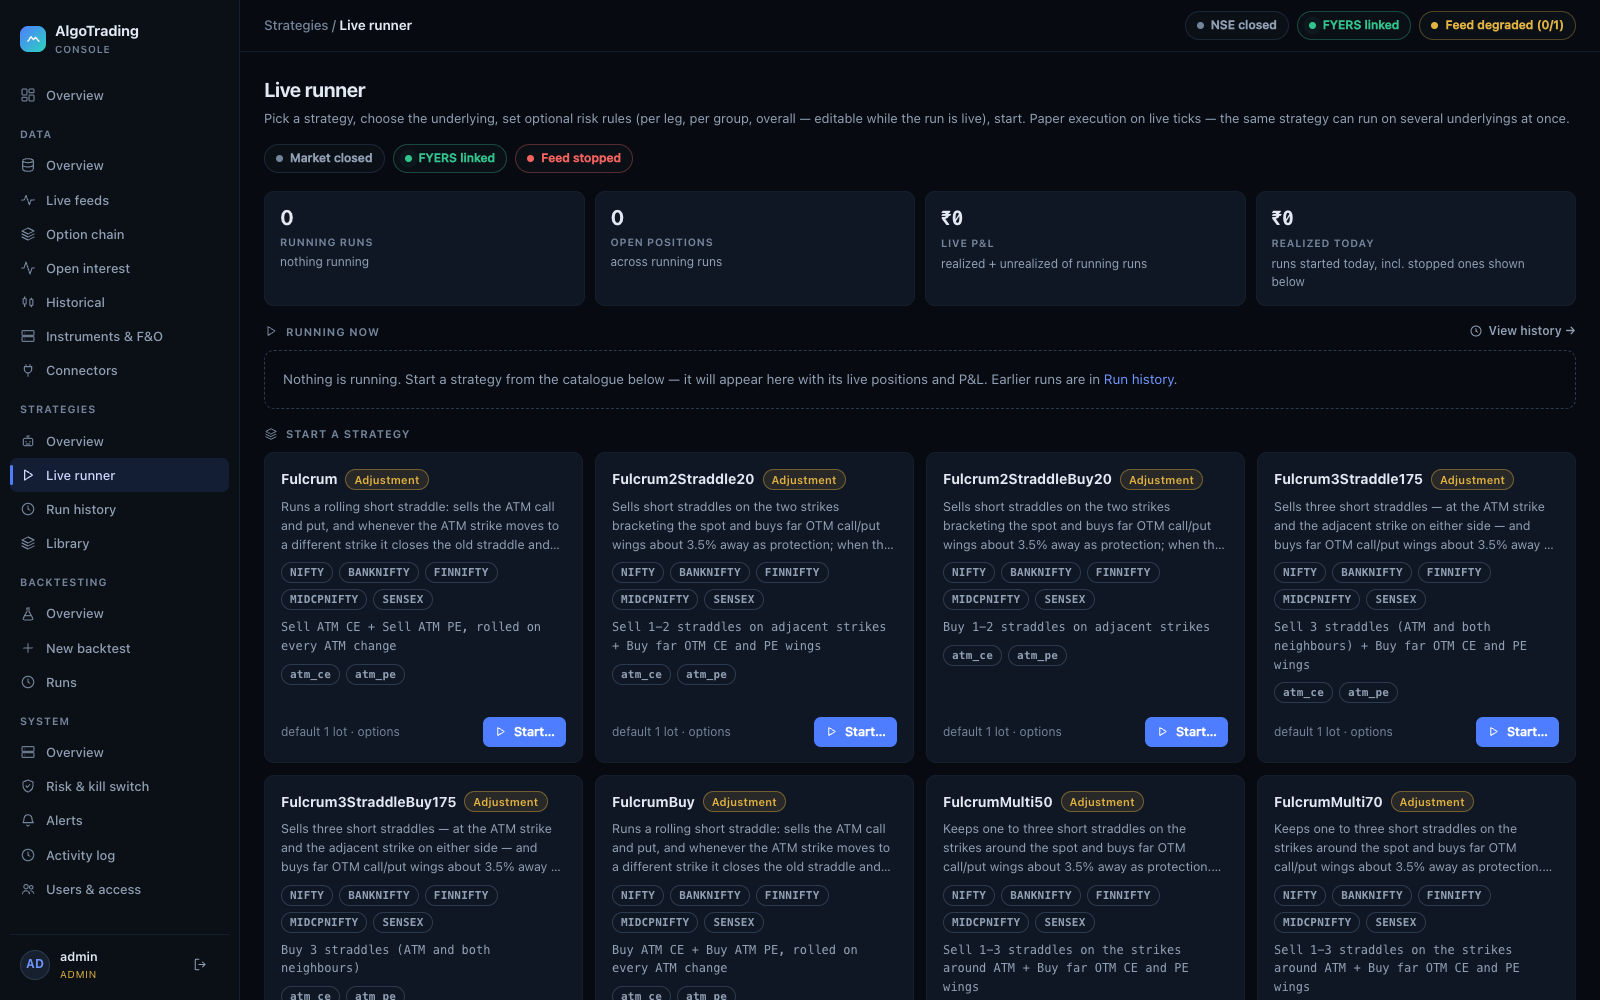
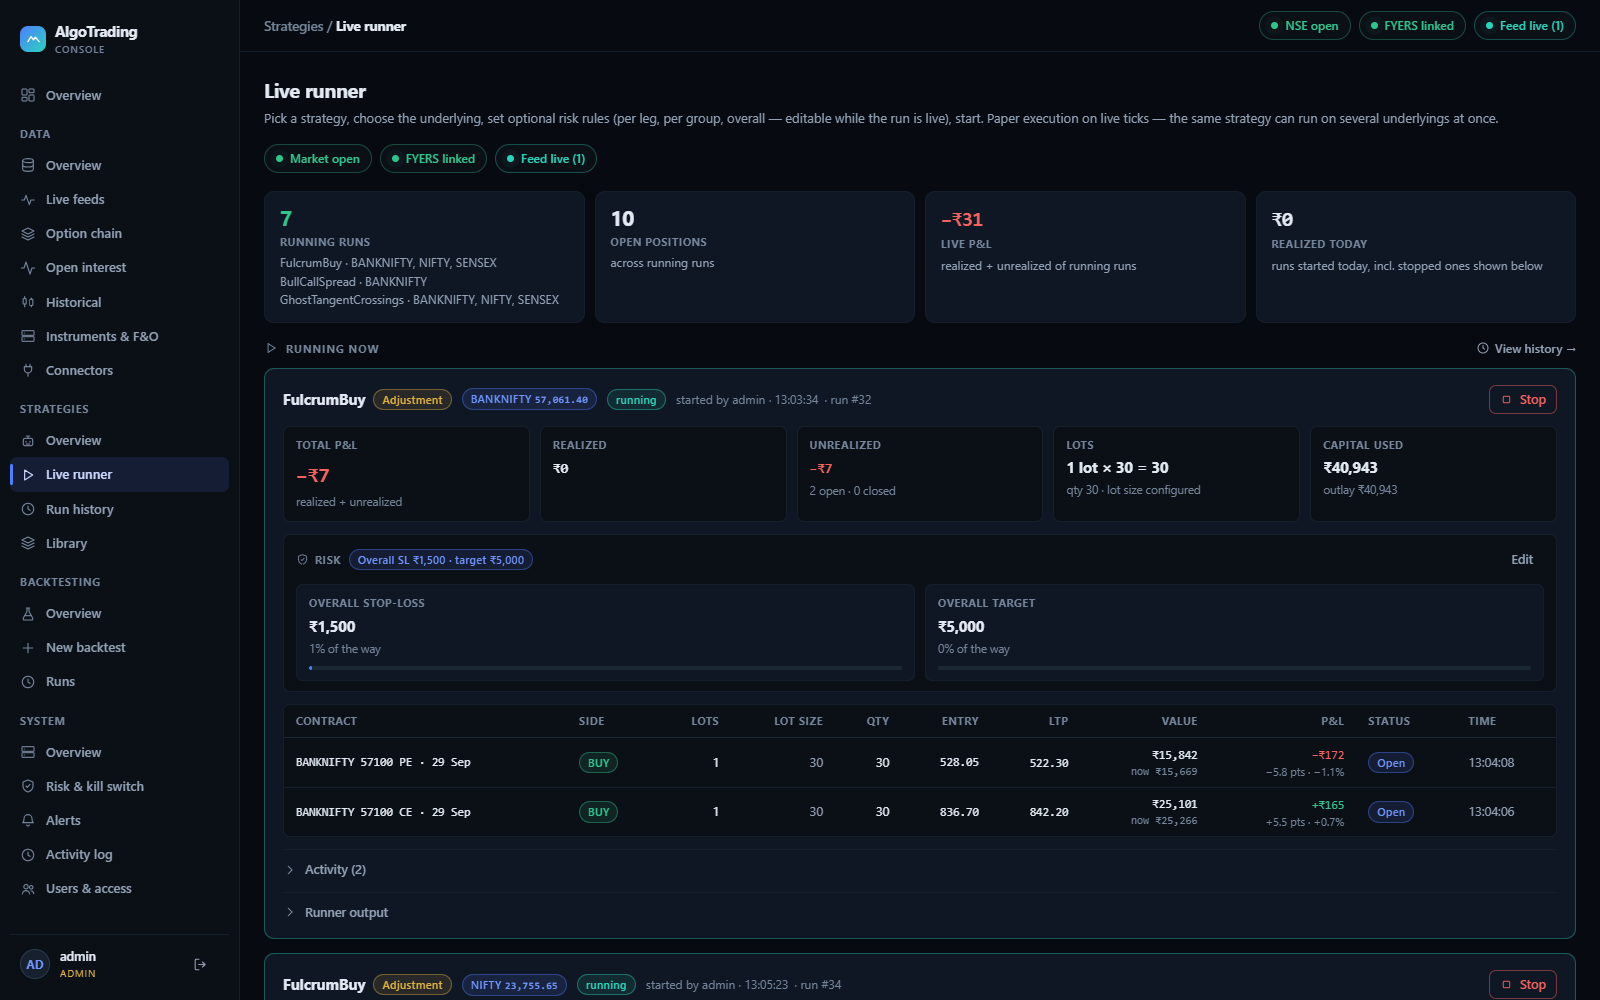
Update docs and images

diff --git a/README.md b/README.md
@@ -45,11 +45,18 @@ backtest you cannot run is better than one that quietly replays a gap.
 
 ![Backtesting: stored history per index and resolution, with its source](docs/image/console-backtesting.png)
 
+**Strategies** — what is running right now, across every underlying, with the
+open positions and live P&L of each run. The same strategy on three indices is
+three independent runs: each is counted, priced and stopped on its own.
+
+![Strategies: runs live across NIFTY, BANKNIFTY and SENSEX, each with its own open positions and P&L](docs/image/console-strategies-live.png)
+
 **Run history** — every live run, attached to the user who started it, with
 quantity expressed as **lots × lot size** rather than a bare share count.
-Nothing is dismissed: a run that stopped for any reason is still here.
+Nothing is dismissed: a run that stopped for any reason is still here, and the
+ones still going are counted apart from it as live.
 
-![Run history: runs per user with net P&L and lots × lot size](docs/image/console-run-history.png)
+![Run history: runs per user, the live ones still counting, with net P&L and lots × lot size](docs/image/console-run-history.png)
 
 **Live runner** — pick a strategy, choose the underlying, set risk rules per leg,
 per group or over the whole run, and start it. Quantity is **lots**; the platform
@@ -57,7 +64,26 @@ multiplies by the contract's lot size, which differs per underlying (30 for
 BANKNIFTY, 65 for NIFTY) and is read from the instrument master rather than
 assumed.
 
-![Live runner: running runs, then the strategy catalogue with supported underlyings](docs/image/console-live-runner.png)
+![Live runner: running runs with their risk rules, open legs and live P&L, above the strategy catalogue](docs/image/console-live-runner.png)
+
+**A live run** — one run in full: the legs it holds, what it paid for them, what
+they are worth on the current tick, and how far it has travelled towards its
+stop-loss or target. Entry sits next to LTP, so the P&L is arithmetic a reader
+can check rather than a number to be trusted.
+
+![A live run: a BullCallSpread on BANKNIFTY with both legs open, entry against LTP, and progress towards target](docs/image/console-live-run-detail.png)
+
+**Positions** — the run's paper position book, marked to the last stored tick.
+Equity, capital in use and what is still free sit above it, so what a run is
+costing is visible while it runs rather than once it has stopped.
+
+![Positions: a run's paper position book, average price against mark, with equity and capital in use](docs/image/console-live-positions.png)
+
+**Orders** — every paper order the run placed, the price it asked for against
+the price it filled at, and below them the strategy signals that produced them.
+A fill is traceable back to the decision that caused it.
+
+![Orders: paper orders with requested against fill price, above the signals that produced them](docs/image/console-live-orders.png)
 
 **Connectors** — data vendors and brokers as first-class things rather than
 hard-wired code. Each declares what it can actually deliver, and the routing
